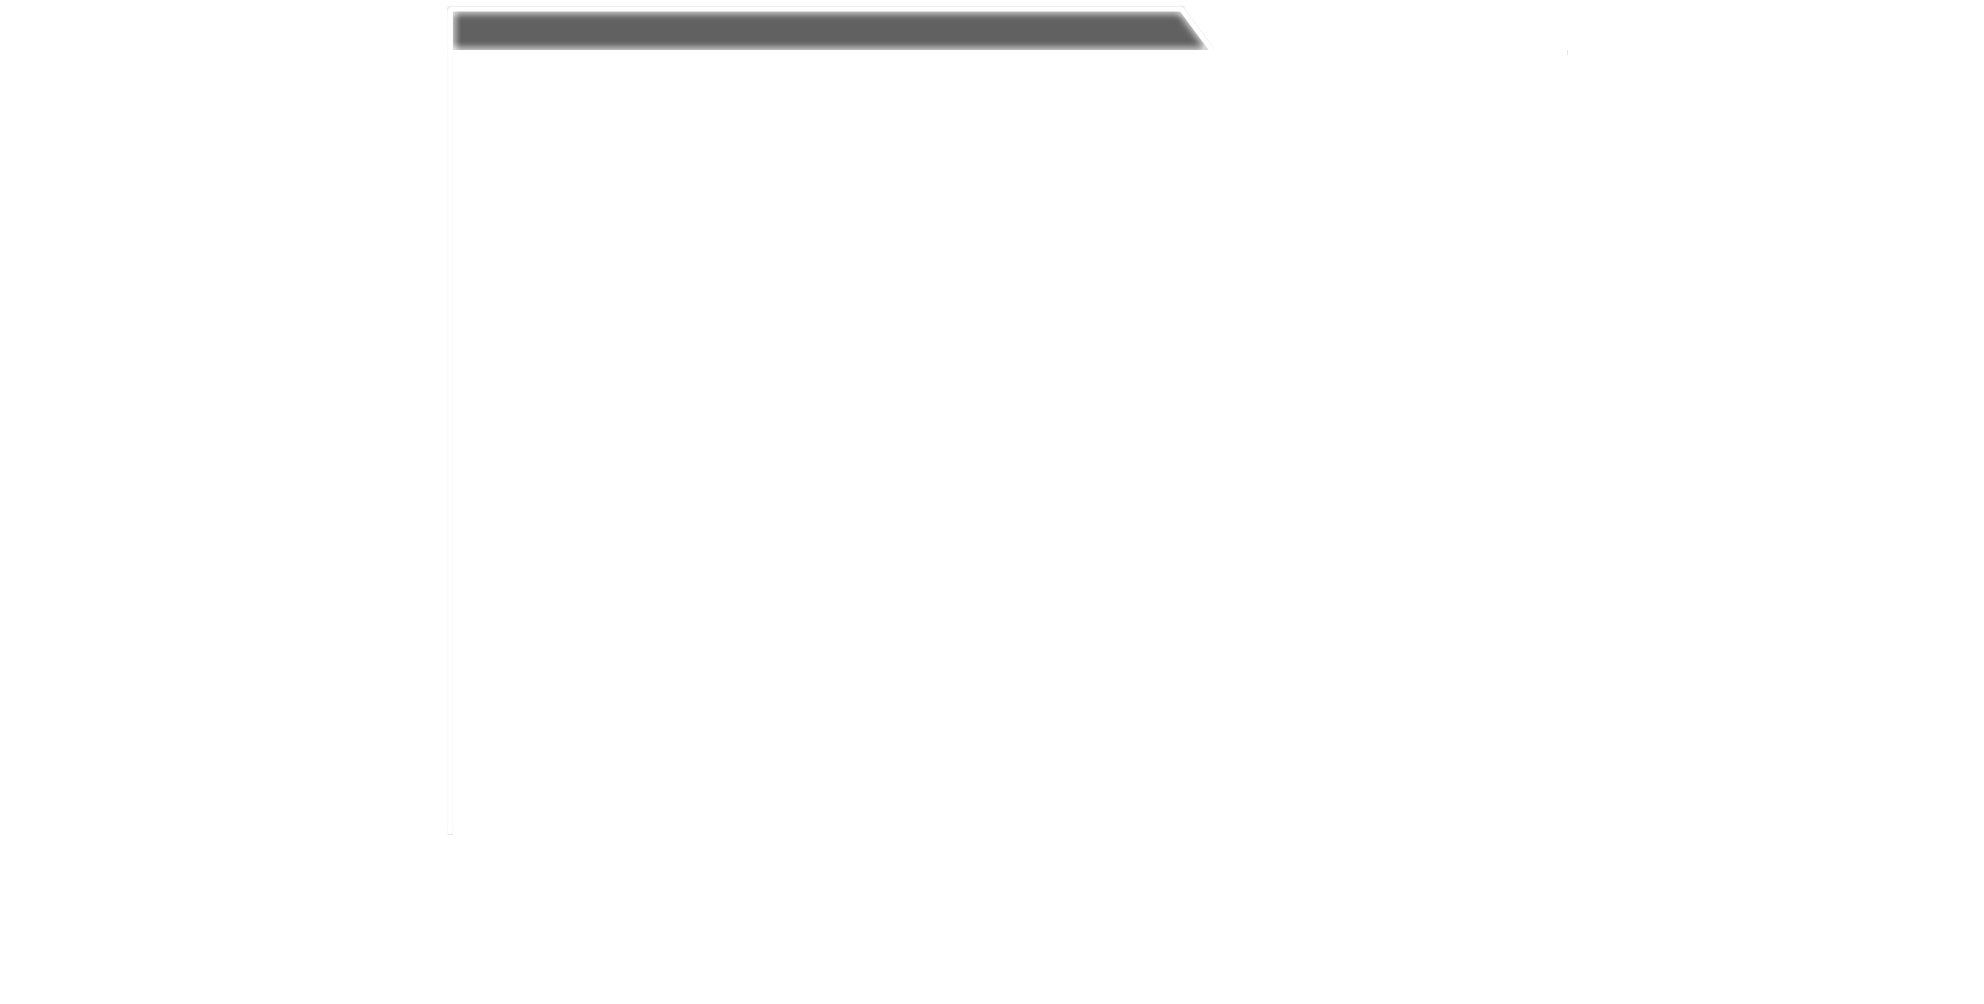
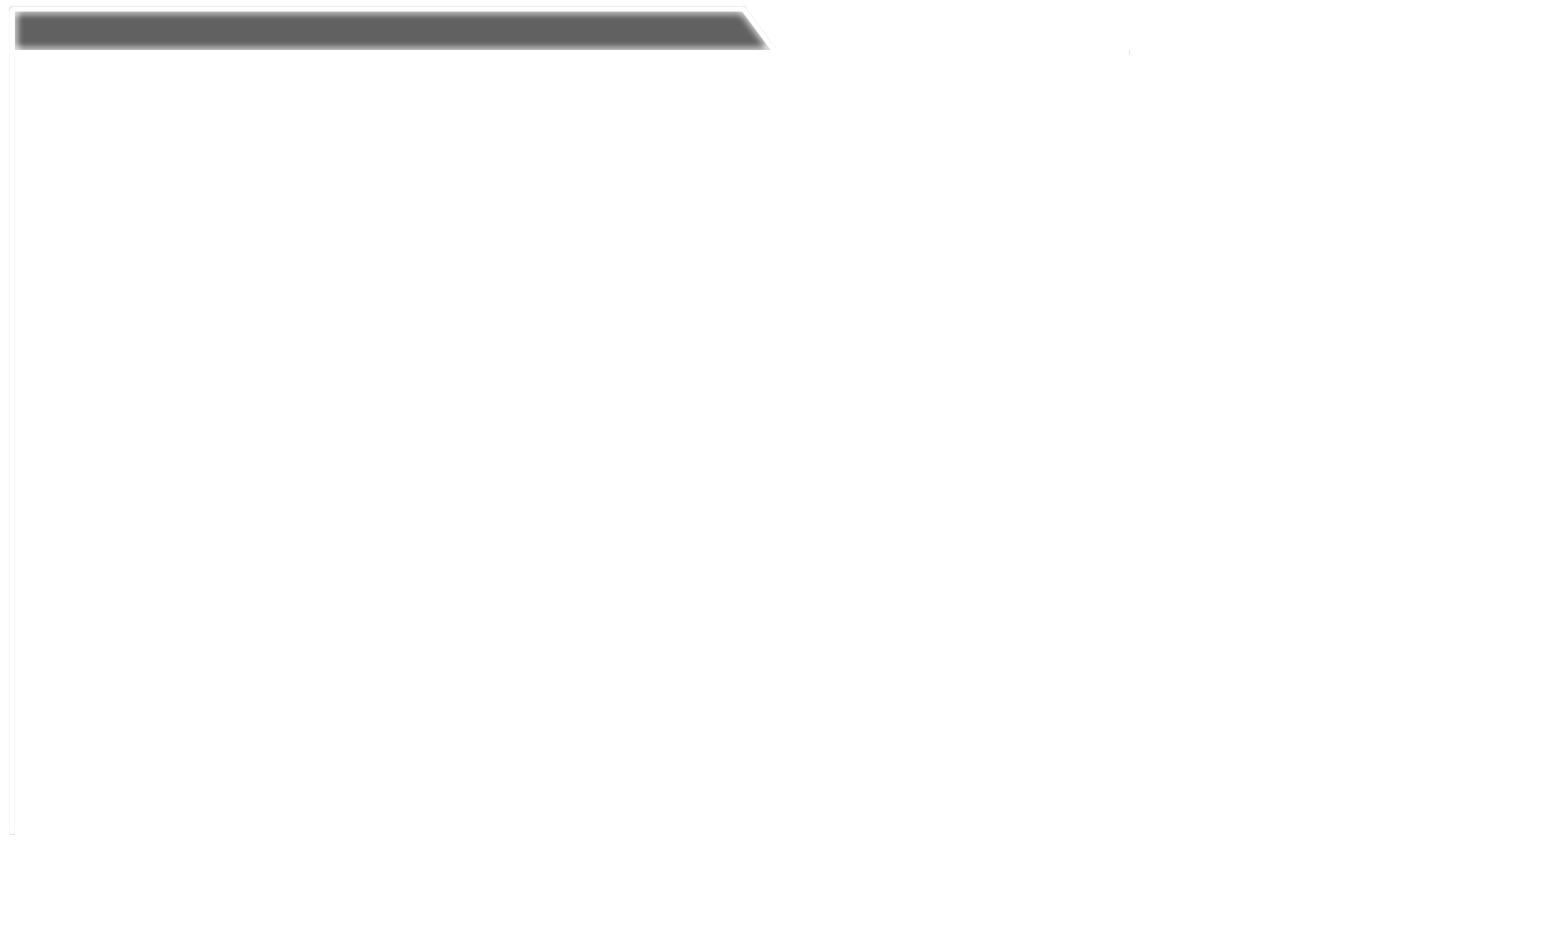
FIX: Radial menu now uses widget configuration scaling FIX: Thumbnail window lines
Former-commit-id: b3f9863b992a82b527fe9c552f26c11e6f4e925f

Changed region(s): [[0.0, 0.0, 0.621, 0.0612]]

diff --git a/public_HTTPS/src/radialMenu.js b/public_HTTPS/src/radialMenu.js
@@ -44,6 +44,10 @@ function radialMenu(){
 	this.thumbWindowctx = null;
 	
 	this.init = function(id, thumbElem) {
+		radialMenuScale = ui.widgetControlSize * 0.03;
+		radialMenuCenter = { x: 210 * radialMenuScale, y: 210 * radialMenuScale }; // overwritten in init - based on window size
+		radialMenuSize = { x: 425 * radialMenuScale, y: 425 * radialMenuScale };
+		
 		this.element = document.getElementById(id); // gets because pointer is assumed to be created with initial connection (else createElement( canvas tag)
 		this.ctx     = this.element.getContext("2d");
 		
@@ -71,7 +75,7 @@ function radialMenu(){
 		this.dragPosition = { x: 0, y: 0 };
 		
 		this.dragThumbnailWindow = false;
-		this.thumbnailWindowPosition = { x: (radialMenuCenter.x * 2 + imageThumbSize/2), y: 30 };
+		this.thumbnailWindowPosition = { x: (radialMenuCenter.x * 2 + imageThumbSize/2), y: 30 * radialMenuScale };
 		this.thumbnailWindowDragPosition = { x: 0, y: 0 };
 		this.thumbnailWindowScrollOffset = { x: 0, y: 0 };
 		this.thumbnailWindowInitialScrollOffset = { x: 0, y: 0 };
@@ -175,7 +179,7 @@ function radialMenu(){
 		this.glowLine.src = this.resrcPath +"glow_lines2A_menu_1024.png"
 		
 		this.glowLineOpen = new Image;
-		this.glowLineOpen.src = this.resrcPath +"glow_lines2A_window_1024.png"
+		this.glowLineOpen.src = this.resrcPath +"glow_lines2A_menu_1024.png"
 		
 		this.thumbnailWindowFrame = new Image;
 		this.thumbnailWindowFrame.src = this.resrcPath +"thumbnail_window_frame2.png"
@@ -364,14 +368,21 @@ function radialMenu(){
 			this.stateTransition = 1;
 		}
 		
-		// Thumbnail window background
+		this.radialDragButton.draw();
+		
 		if( this.currentMenuState !== 'radialMenu' )
 		{
+			// Thumbnail window background
 			this.thumbWindowctx.fillRect(0,this.thumbnailWindowPosition.y, thumbnailWindowSize.x * thumbnailWindowWidth, thumbnailWindowSize.y)
+			
+			// line from radial menu to thumbnail window
+			this.ctx.beginPath();
+			this.ctx.moveTo( radialMenuCenter.x + menuButtonSize/4 * radialMenuScale, radialMenuCenter.y );
+			this.ctx.lineTo( this.thumbnailWindowPosition.x - 18  * radialMenuScale , radialMenuCenter.y );
+			this.ctx.strokeStyle = '#ffffff';
+			this.ctx.lineWidth = 5 * radialMenuScale;
+			this.ctx.stroke();
 		}
-		// ------------------------------------------------------
-		
-		this.radialDragButton.draw();
 		
 		if( this.currentMenuState == 'radialMenu' )
 			this.drawImage( this.ctx, this.glowLine, this.radialMenuCenter, {x: 510 * this.stateTransition * radialMenuScale, y: 510 * this.stateTransition * radialMenuScale}, "rgba(255, 255, 255, 0.9)", 0, true );
@@ -435,17 +446,55 @@ function radialMenu(){
 			if( this.currentMenuState !== 'radialMenu' )
 			{
 				this.ctx.fillStyle = "rgba(5, 5, 5, 0.5)"
-				this.ctx.fillRect(previewImageX - 10,this.thumbnailWindowPosition.y + 20, previewImageSize + 20, thumbnailWindowSize.y)
+				this.ctx.fillRect(previewImageX - 10, this.thumbnailWindowPosition.y + 20, previewImageSize + 20, thumbnailWindowSize.y)
 				
 				//this.ctx.fillRect(this.thumbnailWindowPosition.x,5, 720, 50)
 			}
 			
-			this.drawImage( this.ctx, this.thumbnailWindowFrame, {x: (radialMenuCenter.x - radialMenuSize.x/2), y: 0}, {x: 1984, y: 1004}, "rgba(255, 255, 255, 0.9)", 0, false );
+			// Thumbnail window - Horz line bottom
+			//this.ctx.beginPath();
+			//this.ctx.moveTo(this.thumbnailWindowPosition.x - 18  * radialMenuScale, this.thumbnailWindowPosition.y + 18  * radialMenuScale );
+			//this.ctx.lineTo( previewImageX - 10 + previewImageSize + 20, this.thumbnailWindowPosition.y + 18  * radialMenuScale );
+			//this.ctx.strokeStyle = '#ffffff';
+			//this.ctx.lineWidth = 5 * radialMenuScale;
+			//this.ctx.stroke();
+			
+			// Thumbnail window - Title bar
+			this.ctx.beginPath();
+			this.ctx.moveTo(this.thumbnailWindowPosition.x - 18  * radialMenuScale, 5 * radialMenuScale );
+			this.ctx.lineTo( previewImageX - 10 - 40 * radialMenuScale + 2.5 * radialMenuScale, 5 * radialMenuScale ); // Top vertical line
+			this.ctx.lineTo( previewImageX - 10, this.thumbnailWindowPosition.y + 18  * radialMenuScale ); // Angled line
+			this.ctx.lineTo( this.thumbnailWindowPosition.x - 18  * radialMenuScale, this.thumbnailWindowPosition.y + 18  * radialMenuScale ); // Bottom horizontal line
+			this.ctx.closePath();
+
+			this.ctx.fillStyle = '#50505080'
+			this.ctx.fill();
+			this.ctx.strokeStyle = '#ffffff';
+			this.ctx.lineWidth = 5 * radialMenuScale;
+			this.ctx.stroke();
+			
+			// Thumbnail window - Vert line
+			this.ctx.beginPath();
+			this.ctx.moveTo(this.thumbnailWindowPosition.x - 18  * radialMenuScale , this.thumbnailWindowPosition.y + 18  * radialMenuScale );
+			this.ctx.lineTo( this.thumbnailWindowPosition.x - 18  * radialMenuScale , thumbnailWindowSize.y);
+			this.ctx.strokeStyle = '#ffffff';
+			this.ctx.lineWidth = 5 * radialMenuScale;
+			this.ctx.stroke();
+						
+			// Thumbnail window - Vert line across preview window
+			this.ctx.beginPath();
+			this.ctx.moveTo( previewImageX - 10, this.thumbnailWindowPosition.y + 18  * radialMenuScale );
+			this.ctx.lineTo( previewImageX - 10 + previewImageSize + 20, this.thumbnailWindowPosition.y + 18  * radialMenuScale );
+			this.ctx.strokeStyle = '#ffffff';
+			this.ctx.lineWidth = 5 * radialMenuScale;
+			this.ctx.stroke();
+			
+			//this.drawImage( this.ctx, this.thumbnailWindowFrame, {x: (this.thumbnailWindowPosition.x - 38 * radialMenuScale), y: 0}, {x: 1984 * radialMenuScale, y: 1004}, "rgba(255, 255, 255, 0.9)", 0, false );
 			
 			// Filename text
 			this.ctx.font="24px sans-serif";
 			this.ctx.fillStyle = "rgba(250, 250, 250, 1.0)"
-			this.ctx.fillText( this.hoverOverText, this.thumbnailWindowPosition.x, this.thumbnailWindowPosition.y + 8 );
+			this.ctx.fillText( this.hoverOverText, this.thumbnailWindowPosition.x + 15 * radialMenuScale, this.thumbnailWindowPosition.y + 6  * radialMenuScale );
 
 			if( this.hoverOverThumbnail )
 				this.ctx.drawImage( this.hoverOverThumbnail, previewImageX, previewImageY, previewImageSize, previewImageSize );

diff --git a/public_HTTPS/src/ui_builder.js b/public_HTTPS/src/ui_builder.js
@@ -458,11 +458,11 @@ function uiBuilder(json_cfg, clientID) {
 			menuElem = createDrawingElement(data.id+"_menu", "pointerItem",
 								data.x  - this.offsetX,
 								data.y - this.offsetY,
-								radialMenuSize.x, radialMenuSize.y, 9000);
+								radialMenuSize.x * ui.widgetControlSize * 0.03, radialMenuSize.y * ui.widgetControlSize * 0.03, 9000);
 			menuElem2 = createDrawingElement(data.id+"_menuWindow", "pointerItem",
 								data.x  - this.offsetX,
 								data.y - this.offsetY,
-								radialMenuSize.x, radialMenuSize.y, 8900);
+								radialMenuSize.x * ui.widgetControlSize * 0.03, radialMenuSize.y * ui.widgetControlSize * 0.03, 8900);
 			this.main.appendChild(menuElem); 
 			this.main.appendChild(menuElem2); 
 			
